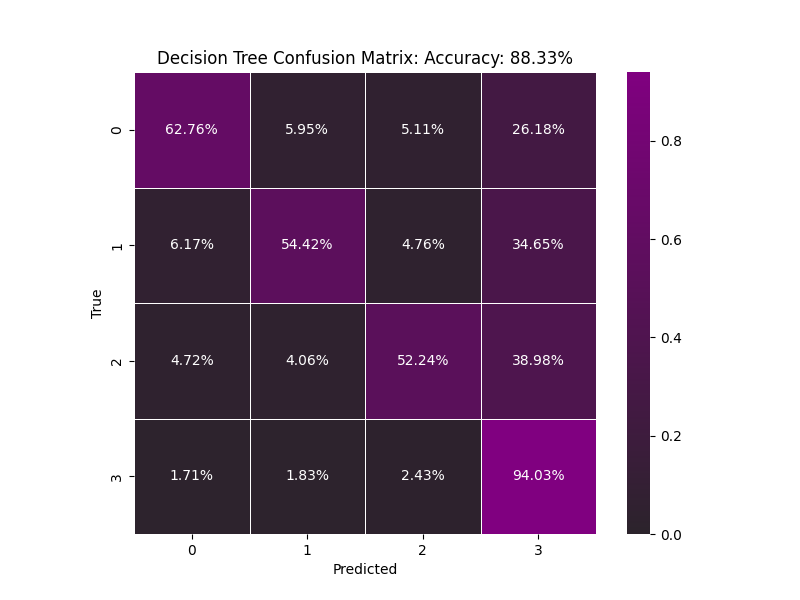
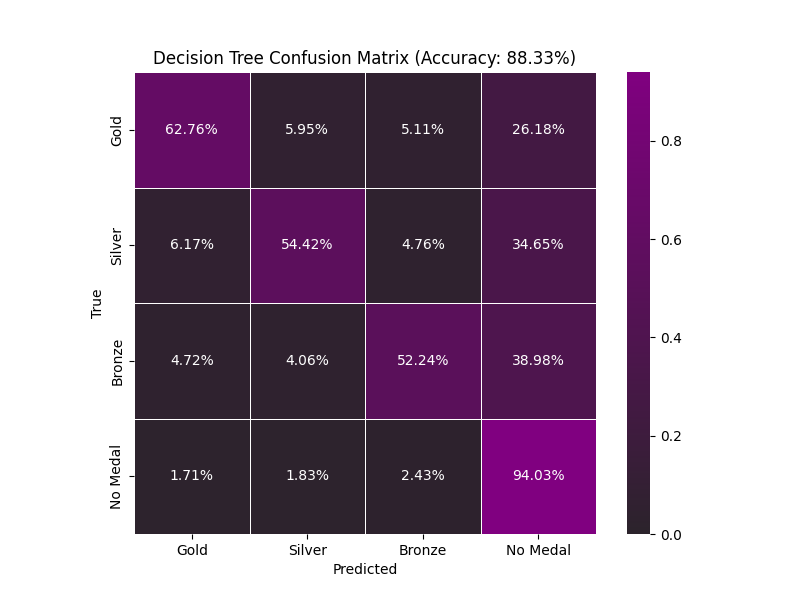
Updated images & readme

diff --git a/README.md b/README.md
@@ -71,23 +71,23 @@ In order to prepare our dataset for the machine learning models, it was necessar
 4. Label encode the medal column - This transforms the categorical feature into an ordinal feature. The following values were encoded: 1: Gold, 2: Silver, 3: Bronze, 4: No Medal
 5. One-hot encode Sex, Team, City, Sport, and Event columns - In order to utilize categorical variables in our models, they had to be numerically encoded so that the models could learn from them. One-hot encoding allows for this without extra relationships being introduced (such as a ranked relationship like in the Label encoding) 
 
-### Machine Learning Models Ml
-A classification model is a machine learning type of modeling used to predict the categories or classes of a given data set. In this case, we processed, trained, and evaluated the "120-years-of-olympic-history-athletes-and-results" dataset using four different models: Artificial Neural Networks (MPL), Decision Tree  Classifier(CLF), K-Nearest Neighbors (KNN), and Random Forest (RF), to predict the multi-categorical variable 'medal'. 
+### Models Explanation and Analysis
+A classification model is a machine learning type of modeling used to predict the categories or classes of a given data set. In this case, we processed, trained, and evaluated the "120-years-of-olympic-history-athletes-and-results" dataset using four different models: Artificial Neural Networks (MPL), Decision Tree  Classifier(CLF), K-Nearest Neighbors (KNN), and Random Forest (RF), to predict the multi-categorical variable 'medal'. The image below contains the results of our 4 models.
 
-<img width="401" alt="Screenshot 2023-12-04 at 9 11 50 PM" src="https://github.com/Maxi100a/Olympic_Medals_Predictor/assets/148810419/81592332-456b-4e84-9305-7f041e9c29ad">
+![Model Accuracy Results](/Images/model_results.png)
 
-After comparing the results, we can conclude that the Random Forest classifier was the best performer overall. The metrics achieved were similar to the other models, but the Random Forest classifier ran the faster computational time, and the complexity was nominal.
-The Neural Network model could be improved by testing different architectures. However, it's important consider the objectives of the classification model and factors such as time, computation, and performance. In order to efficient use and maximize the prediction tool.
-Overall, the Random Forest classifier was the best choice for this specific model. It is fundamental to notice that every prediction case is unique, hence the necessity to evaluate each model as an exclusive case and choose the classifier that best suits the specific needs of each application. 
+After comparing the results of each model, we can conclude that the Random Forest classifier was the best performer overall. The metrics achieved were similar to the other models, but the Random Forest classifier trains relatively faster than the other models and the complexity was nominal. The Neural Network model is the model with most room for improvement, since you can change the structure of the layers. However, it's important to consider the objectives of the classification model and factors such as time, computation, and performance.
+
+
+Overall, the best choice for the task at hand is the Random Forest model. It trains the quicket of all our models and performs the best. Listed below you will find confusion matrices for each of the four models. There is a heavy imbalance for class 4 predictions, which is the No Medals category. This balance matches the distribution of classes in our dataset itself, which speaks to our model's performance. Additionally, each of models perform differently on predicting medals vs. non medals. 
+
+
 The data provided for a classification problem has their own characteristics that makes it unique, hence the importance of the understanding and analysis of it before start processing a model. When it comes down to choose what specific method is the best to be use for a classification problem, the data to be utilized plays a role in the process of selection the algorithm. For instances, some algorithms can work with categorical data, or fewer samples of data while others require more samples. In our specific case our target medal has a specific imbalance due to the categorical features “Gold”, “Silver”, ”Bronze”, and ”No medal”.
 
-<img width="788" alt="MLP Confusion Matrix" src="https://github.com/Maxi100a/Olympic_Medals_Predictor/assets/148810419/f7553ff7-eae3-4328-9a33-41c685c28472">
-
-<img width="799" alt="Decision Tree Confusion Matrix" src="https://github.com/Maxi100a/Olympic_Medals_Predictor/assets/148810419/bb693d02-58bb-46ec-87f0-d87b55ccb64a">
-
-<img width="796" alt="KNN Confusion Matrix" src="https://github.com/Maxi100a/Olympic_Medals_Predictor/assets/148810419/6eb21225-9e87-46c8-9f6b-7b6480549ef2">
-
-<img width="792" alt="RF Confusion Matrix" src="https://github.com/Maxi100a/Olympic_Medals_Predictor/assets/148810419/ce159537-e841-46a9-aa8a-fcf9c23866b1">
+![MLP Confusion Matrix](/Images/mlp.png)
+![Decision Tree Confusion Matrix](/Images/dt.png)
+![KNN Confusion Matrix](/Images/knn.png)
+![RF Confusion Matrix](/Images/rf.png)
 
 
 ### Thorough Investigation
@@ -116,16 +116,15 @@ If you run into issues with this step, you can manually download the dataset fro
 This project is set up to function on an Amazon EC2 instance running the docker container utilized in class. If you are attempting to run the project on your local machine, follow the instructions to "de-AWS" the python files. 
 
 ### S3 Directory Link
-At the top of each file (batch_ingest, transform, models, analyze), you MUST specify the outmost folder for an S3 bucket. For example, this project was set up to go to "s3://\[CLASS_BUCKET\]/final_project". The code is set up to send it to specific folders inside the S3 bucket for your convenience, so only one folder is necessary per file.
+At the top of each file (batch_ingest, transform, models, analyze), **you MUST specify the parent folder for the S3 bucket**. For example, this project was set up to go to "s3://[CLASS_BUCKET]/final_project". The code is set up to send it to specific folders inside the S3 bucket for your convenience, so use the same folder across all files.
 
 ### Running the Code
-In order to run the code, you need to transfer all of the python files in the dags folder into airflow dags container. The easiest way to do is is to create each file individually using the `nano [filename].py` command and copying over the code.
+In order to run the code, you need to transfer all of the python files in the dags folder located in the airflow setup on the Docker container. If you have not created the airflow environment, you must first run `airflow standalone` on the Docker container to create all the necessary folders.
+
+The easiest way to transfer each file is to use the `nano [filename].py` command and copy over the code.
 
 From there, run airflow in standalone mode and you can run the dag. It will take 30 minutes - 1 hour to run.
 
-
-# TO-DO:
-- Include Results Infographic
 
 ## References
 [1] John D. Kelleher, Brian Mac Namee, Aoife D'Arcy. 2020. Fundamentals of machine learning for predictive data analytics: algorithms, worked examples, and case studies. Data to Insights to Decisions, Data exploration, pp. 23 to 113.
